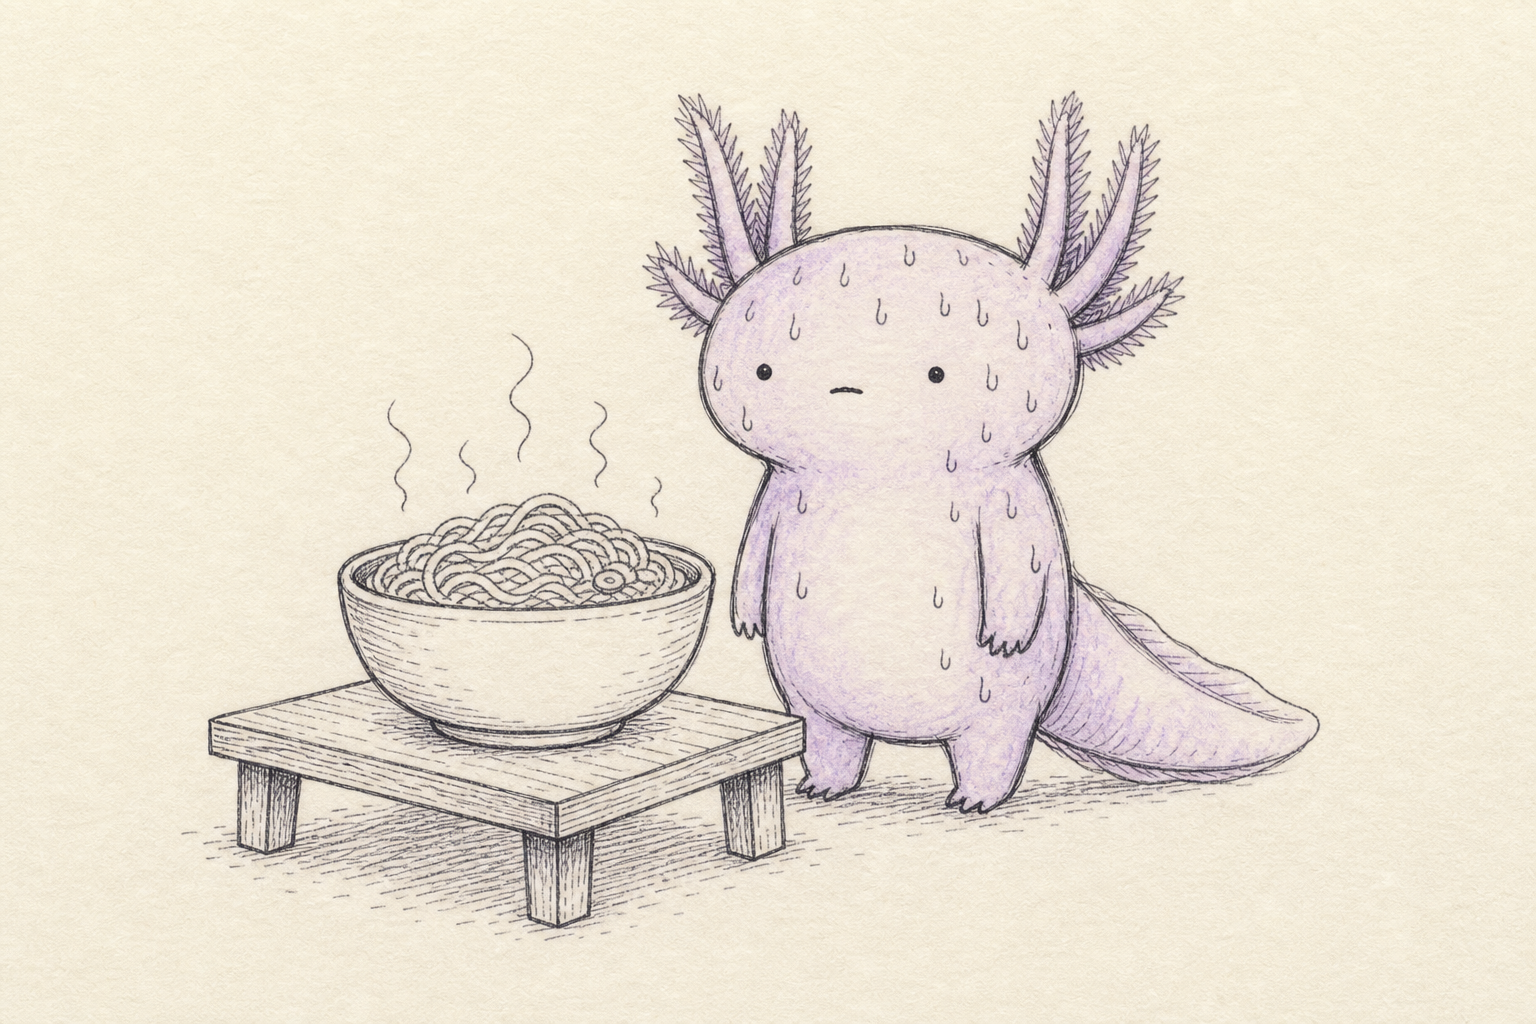
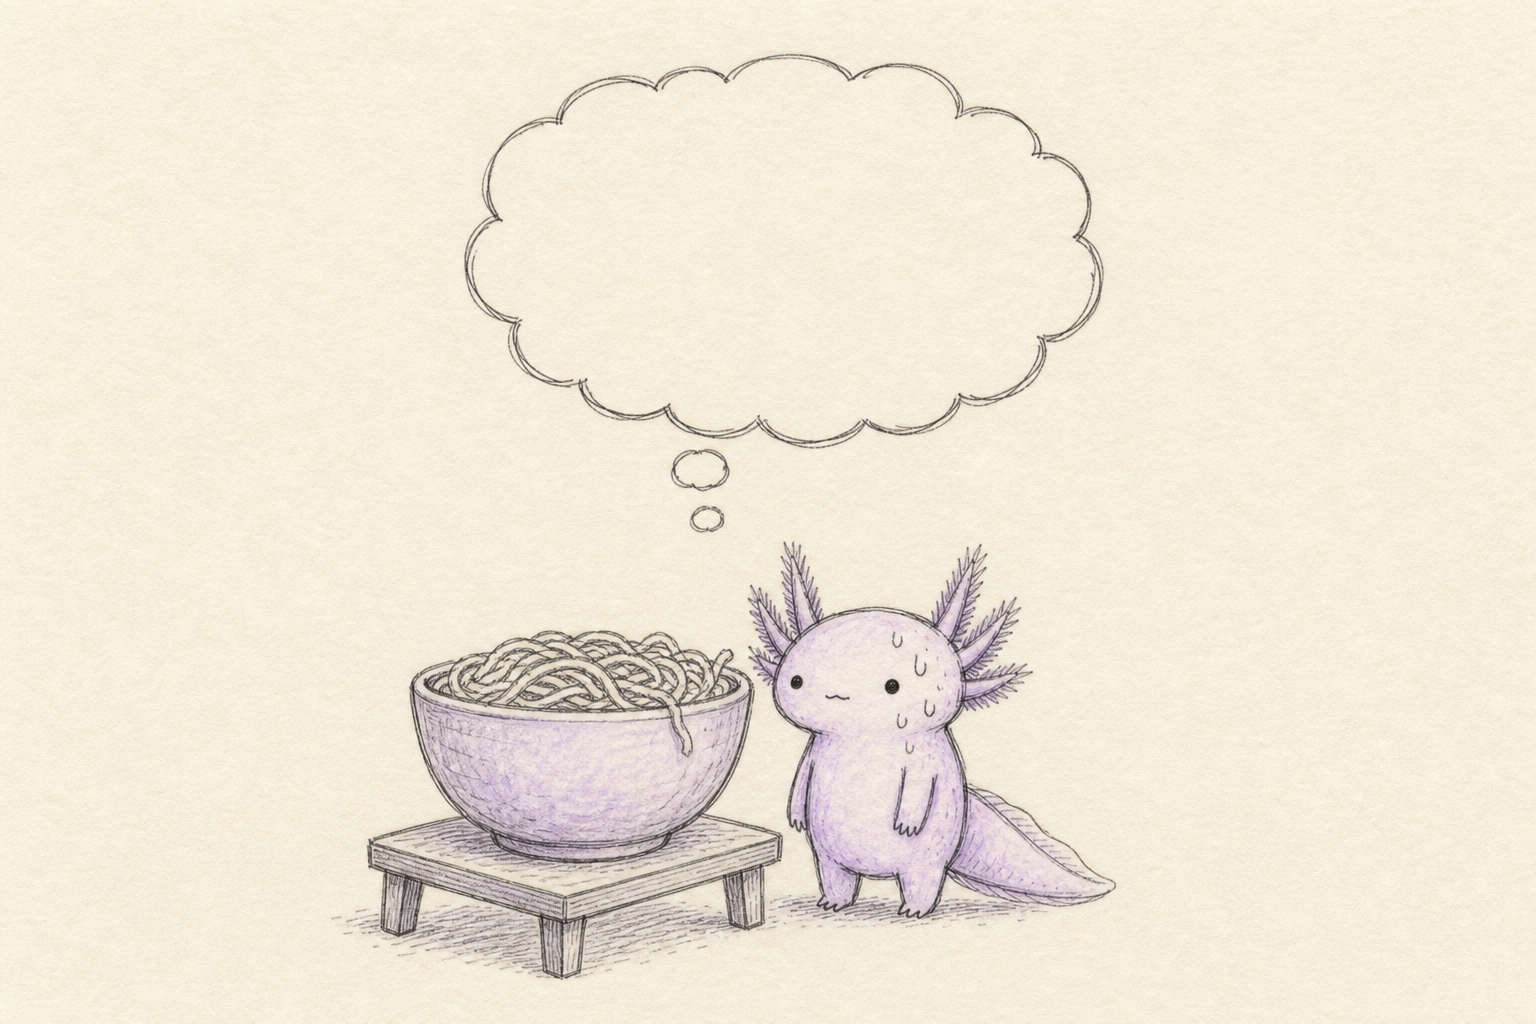
Lock official layout: empty thought cloud + small Axo bottom
Canonical is now Day1 layout with w mouth; all posts use this
frame. Regenerate Day2 in template. Add layout template doc.

diff --git a/docs/axo-color-consistency-zh-TW.md b/docs/axo-color-consistency-zh-TW.md
@@ -6,12 +6,14 @@
 
 ## 一、核心原則
 
-> **每一張 Axo 的顏色、線條、紙張、水彩暈染，都必須與「標準立姿（畫紙上）」同一套。**
+> **每一張 Axo 的顏色、線條、紙張、水彩暈染，都必須與官方模板同一套；構圖也必須相同。**
 
-禁止因換姿勢、換 AI 出圖、或換設計師而漂移色號或畫風。
+禁止因換姿勢、換 AI 出圖、或換設計師而漂移色號、畫風或**版型**。
 
 **主參考檔（視覺真源）：**  
-`assets/axo/pen/png/axo-pen-canonical.png`（標準立姿 · 畫紙手繪）
+`assets/axo/pen/png/axo-pen-canonical.png`（**Day 1 布局 + 空白思考雲 + 小眼 + w 嘴**）
+
+**構圖規則（必守）：** [`axo-layout-template-zh-TW.md`](./axo-layout-template-zh-TW.md)
 
 ---
 

diff --git a/README.md b/README.md
@@ -9,7 +9,8 @@
 
 ## Axo (mascot)
 
-**主視覺 v3（鋼筆 × 畫紙）：** [`assets/axo/pen/`](assets/axo/pen/) · 風格說明 [`docs/axo-style-v3-pen-zh-TW.md`](docs/axo-style-v3-pen-zh-TW.md)
+**主視覺 v3：** [`assets/axo/pen/png/axo-pen-canonical.png`](assets/axo/pen/png/axo-pen-canonical.png)（**固定版型：空白思考雲 + 下方 Axo**）  
+**構圖規則：** [`docs/axo-layout-template-zh-TW.md`](docs/axo-layout-template-zh-TW.md)
 
 v2 平面向量（封存）：[`assets/axo/`](assets/axo/)
 

diff --git a/docs/axo-style-v3-pen-zh-TW.md b/docs/axo-style-v3-pen-zh-TW.md
@@ -6,8 +6,8 @@
 
 **色彩／畫風一致（必守）：** [`axo-color-consistency-zh-TW.md`](./axo-color-consistency-zh-TW.md)
 
-**視覺真源（勿整張重畫換風格）：** `assets/axo/pen/png/axo-pen-canonical.png`  
-**畫風參考檔（僅供對照）：** `assets/axo/pen/png/reference/axo-pen-canonical-master-style.png`
+**視覺真源：** `assets/axo/pen/png/axo-pen-canonical.png`  
+**構圖（所有貼文必用）：** [`axo-layout-template-zh-TW.md`](./axo-layout-template-zh-TW.md)
 
 ---
 
